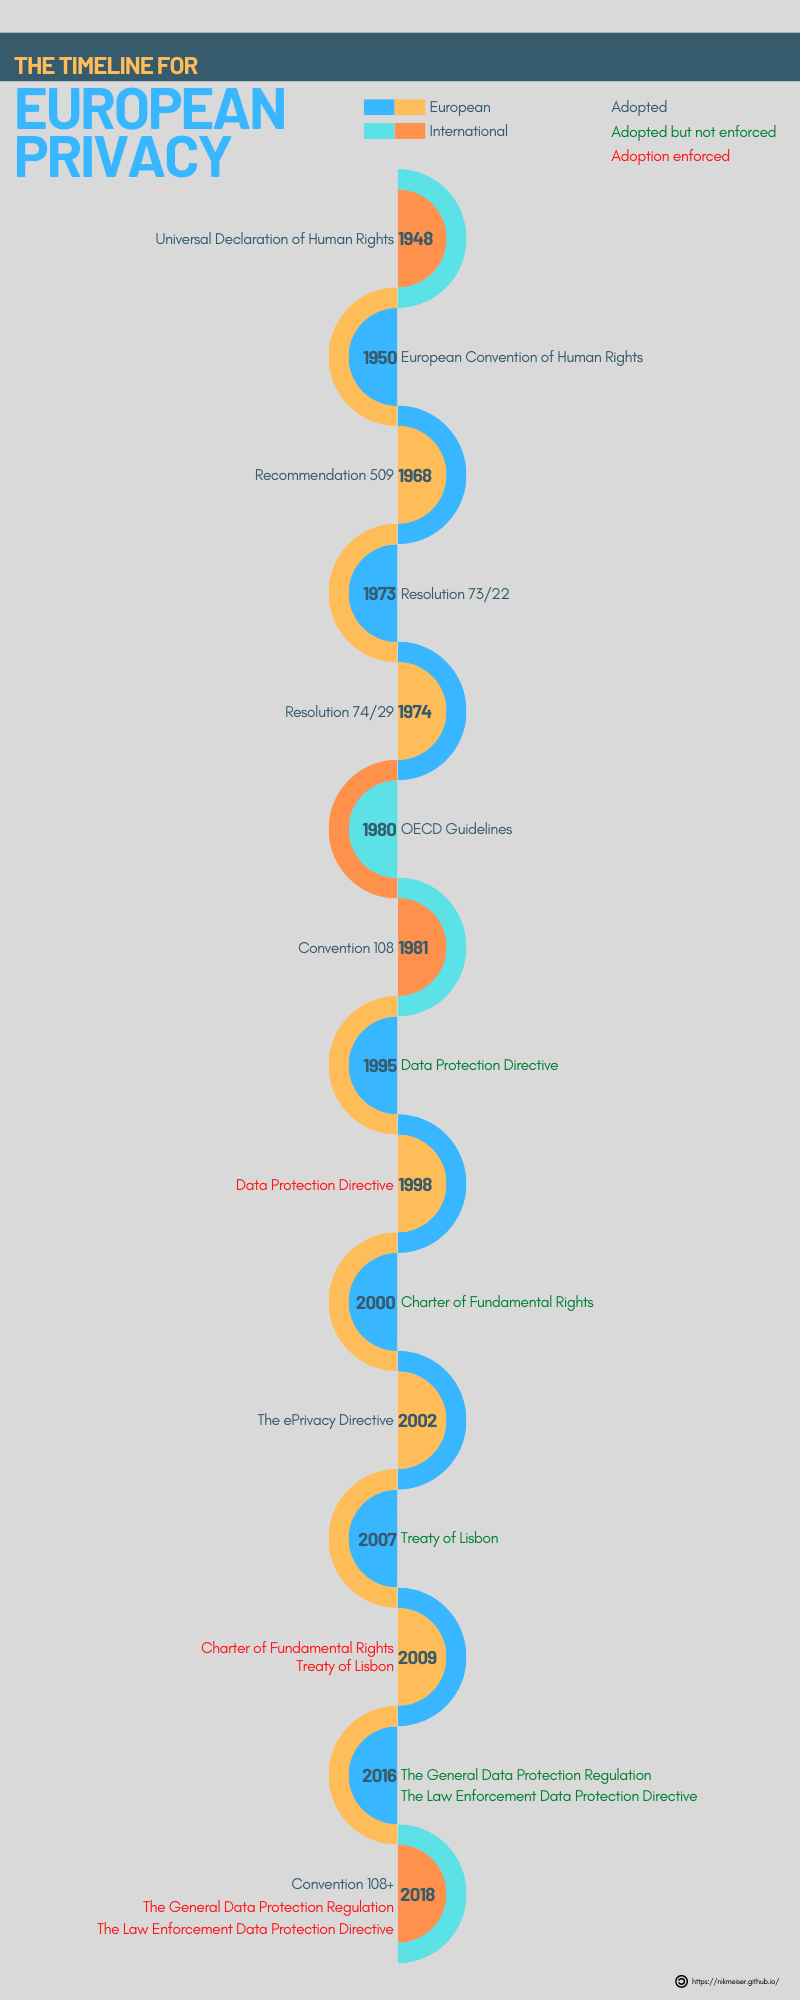
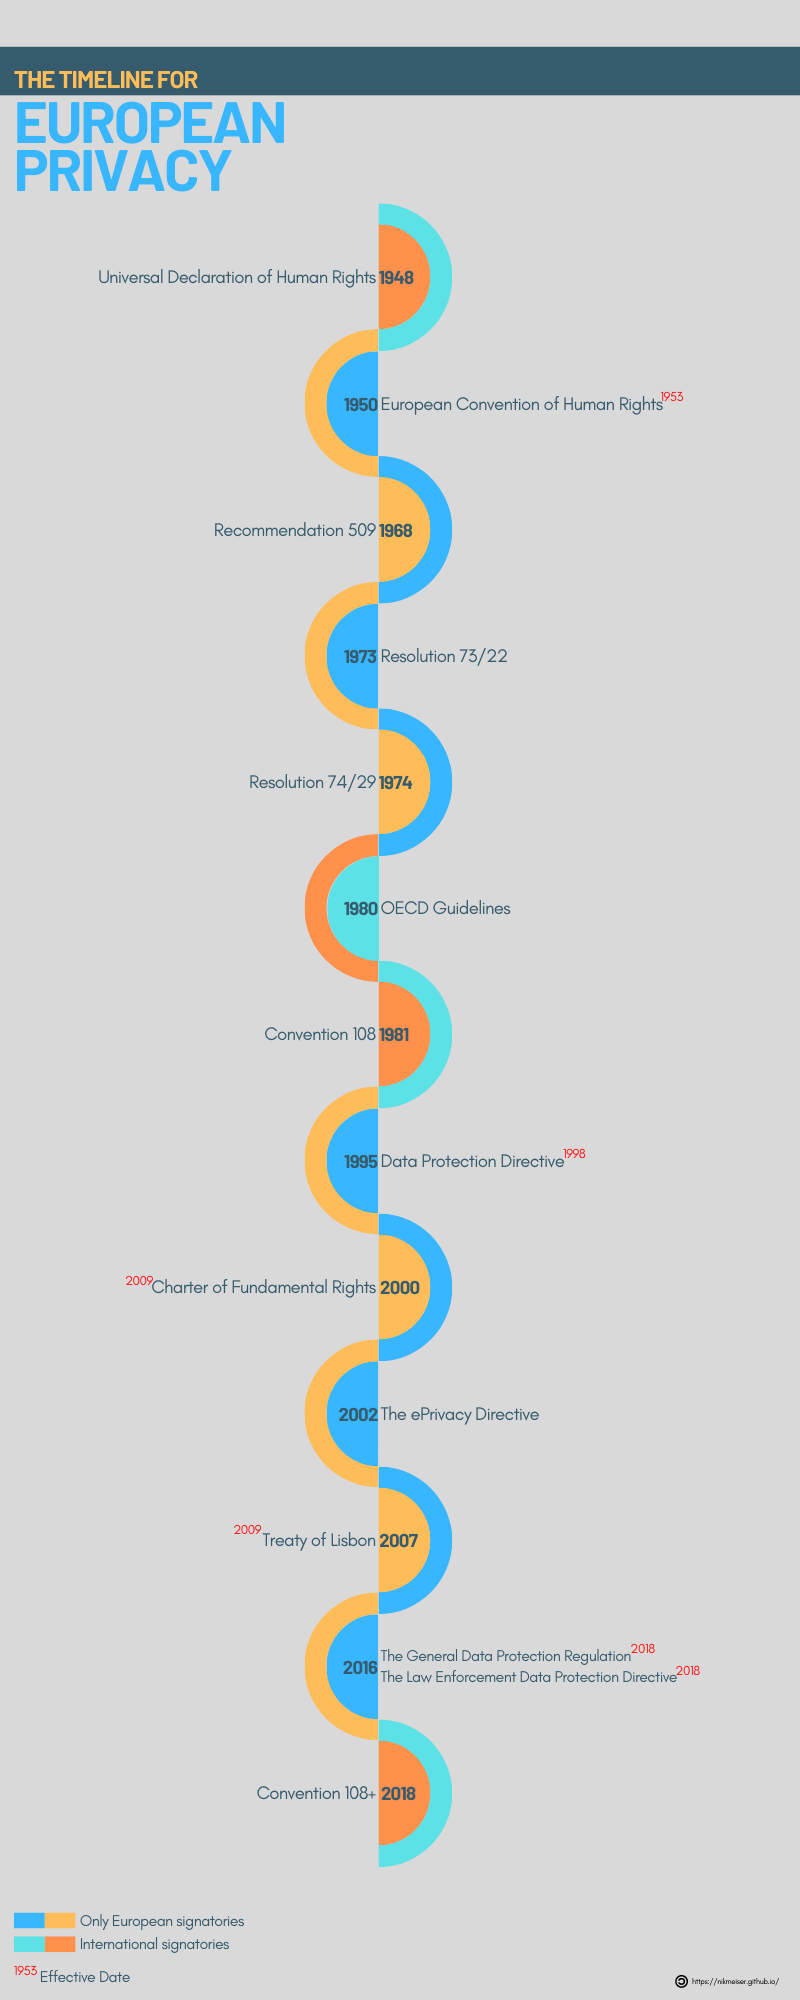
updated timeline png

diff --git a/docs/cippe/1-introduction-to-european-data-protection/1-origins-historical-context.md b/docs/cippe/1-introduction-to-european-data-protection/1-origins-historical-context.md
@@ -54,10 +54,10 @@ Note: Clicking on this image will take you to Wikipedia, where you are subject t
 
 ### 1.2.2 European Convention on Human Rights
 - Promulgated in Rome in 1950 by the Council of Europe
+- Went into effect on 3 September 1953
 - Invited individual states to be signatories
 - Only applies to member states
 	- All Council of Europe states are members
-- Went into effect on 3 September 1953
 - Core protections
 	- Right to life
 	- Prohibition of torture
@@ -233,8 +233,8 @@ maintaining the authority and impartiality of the judiciary.
 
 #### Enactment
 - The proposal led to the creation of [Directive 95/46/EC](https://eur-lex.europa.eu/legal-content/EN/TXT/PDF/?uri=CELEX:31995L0046&from=EN), also known as the 'Data Protection Directive'
-- The Directive was enacted on 24 October 1995 and came into effect starting 13 December 1995
-- It was required to be implemented by all the members by 24 October 1998
+- The Directive was enacted on 24 October 1995 and came into effect on 13 December 1995
+- Members were given until 24 October 1998 to transpose it into national law or risk being penalized by the Commission
 - It was intended to -
 	- build upon Convention 108
 	- bring greater alignment between national laws on data privacy
